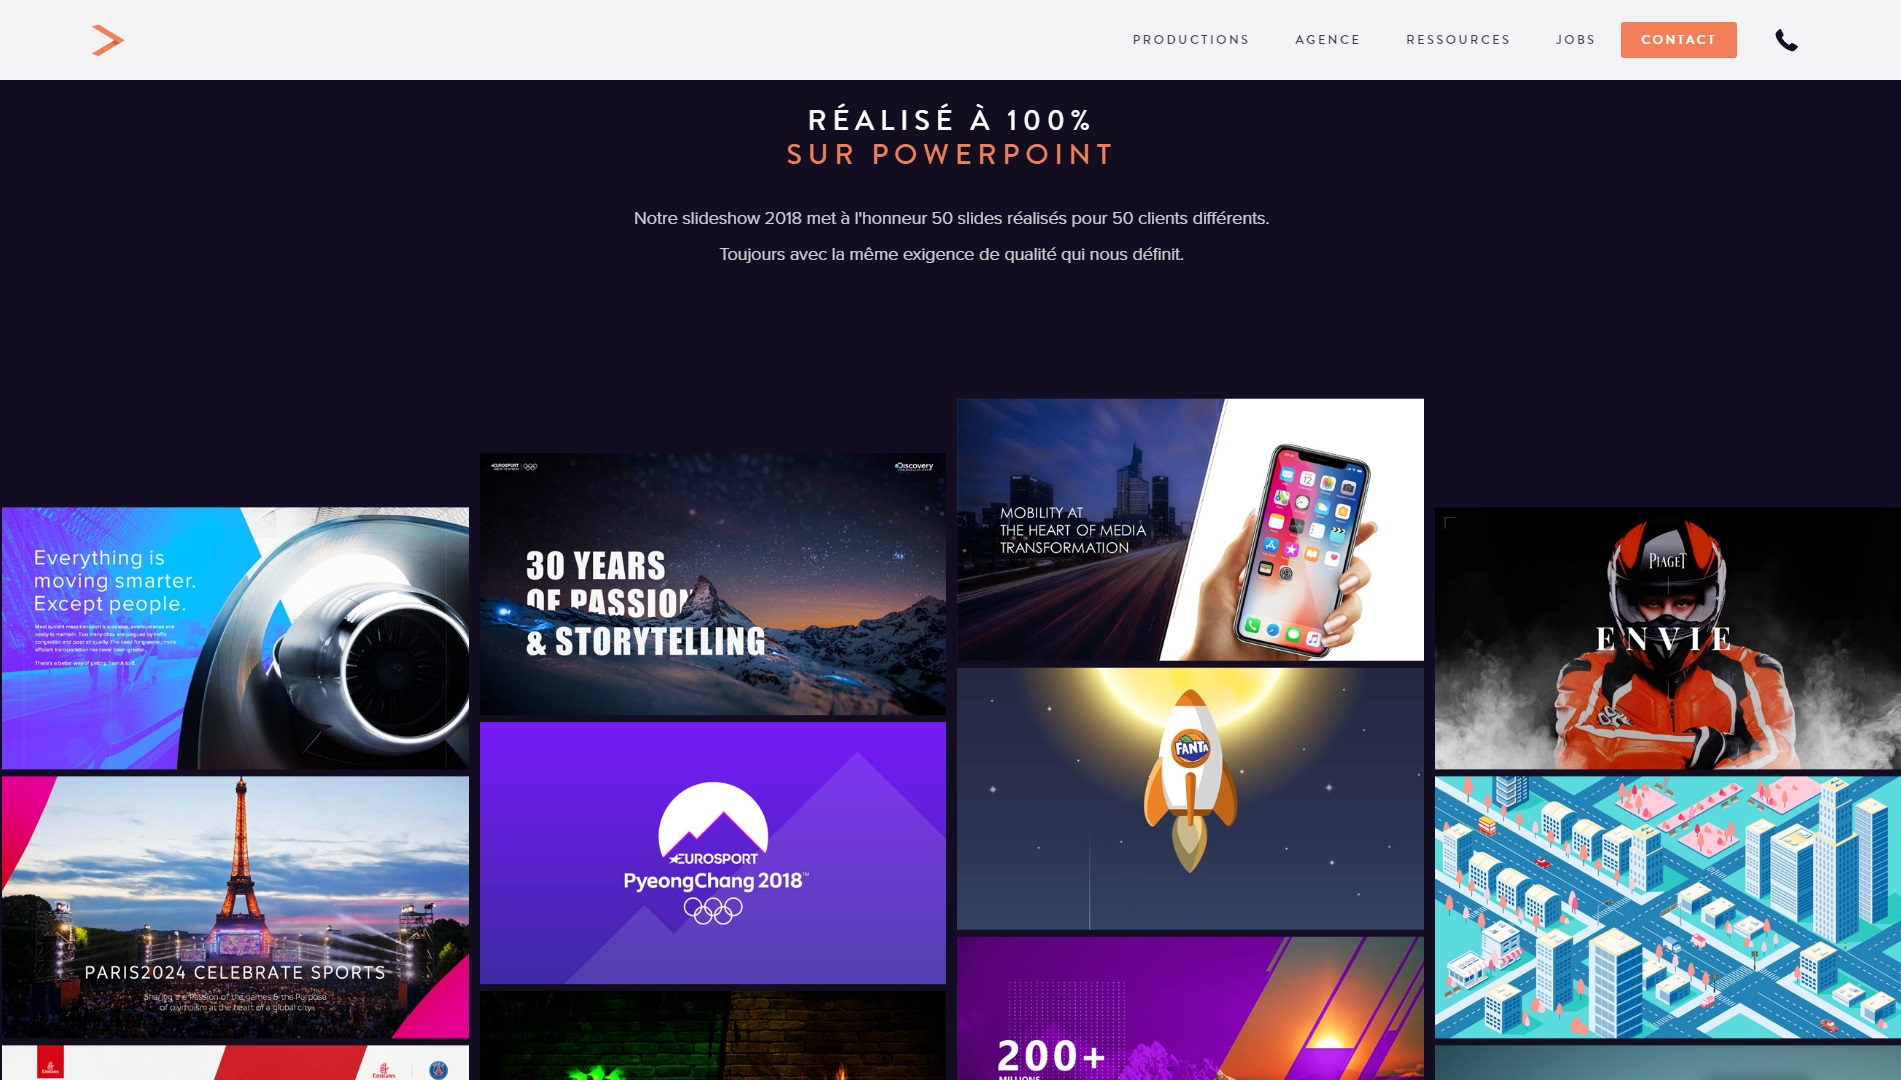
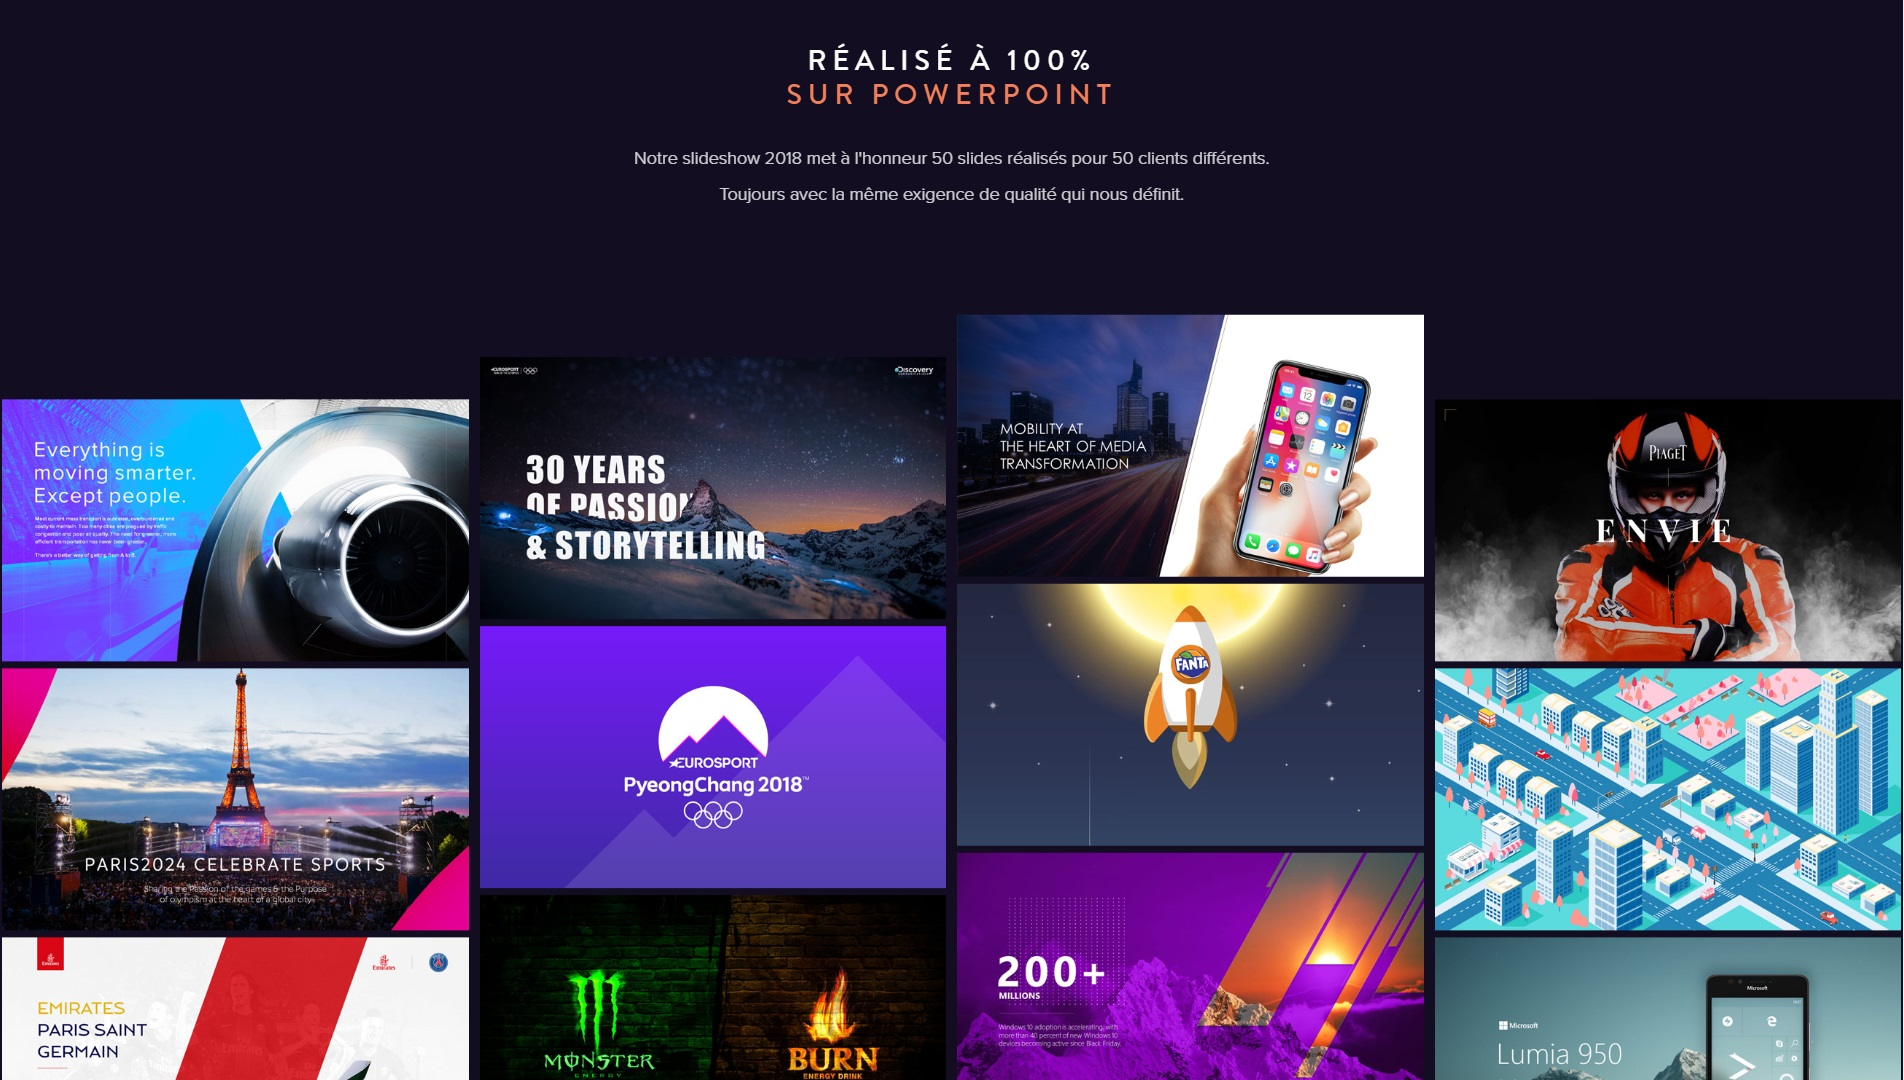
update template for all companies

diff --git a/src/scss/_companies.scss b/src/scss/_companies.scss
@@ -1,46 +1,30 @@
-$companies: (
-	aramis: (
-		color: #0062ad,
-		bg: url('aramis.jpg')
-	),
-	slidor: (
-		color: #120d21,
-		bg: url('slidor.jpg')
-	),
-	nature: (
-		color: #1e2b3f,
-		bg: url('nature.jpeg')
-	),
-	kerala: (
-		color: #f60,
-		bg: url('kerala.jpg')
-	)
-);
-
 .aramis {
-	color: #0062ad
-}
-.bg.aramis {
-	background-image: url('../images/companies/aramis.jpg');
+	color: #1a587e
 }
 
 .slidor {
 	color: #120d21
 }
-.bg.slidor {
-	background-image: url('../images/companies/slidor.jpg');
-}
 
 .nature {
-	color: #1e2b3f
-}
-.col.bg.nature {
-	background-image: url('../images/companies/nature.jpeg');
+	color: #859b6b
 }
 
 .kerala {
-	color: #f60
+	color: #d67923
 }
-.col.bg.kerala {
-	background-image: url('../images/companies/kerala.jpg');
+
+.various {
+	color: #b78557
+}
+
+.codepen {
+	color: #4841ff
+}
+
+.mario {
+	background-image: url('../images/companies/mario.png');
+	background-position: center;
+	background-repeat: no-repeat;
+	background-size: contain;
 }

diff --git a/src/scss/_experience.scss b/src/scss/_experience.scss
@@ -7,7 +7,7 @@
 
 	&__focus {
 		&::after {
-			background-color: $textColor;
+			background-color: $black;
 			content: '';
 			display: block;
 			height: 4px;
@@ -17,7 +17,51 @@
 	}
 
 	&__desc {
-		color: $grey;
-		max-width: 35rem;
+		width: 35rem;
+
+		& + & {
+			margin-top: 2rem;
+		}
+	}
+
+	&__img {
+		height: 100%;
+		left:50%;
+		position: absolute;
+		top:0;
+		transform: translateX(-50%);
+
+		img {
+			max-height: 100%;
+		}
+	}
+}
+
+.col {
+	display: flex;
+	flex: 0 0 50%;
+	flex-direction: column;
+	justify-content: center;
+
+	&.content {
+		padding: 5rem;
+	}
+	
+	&.bg {
+		position: relative;
+		overflow: hidden;
+	}
+
+	.experience:nth-of-type(2n) & {
+		align-items: flex-end;
+	}
+
+	.experience:nth-of-type(2n+1) & {
+		&.bg {
+			order: 1;
+		}
+		&.content {
+			order: 2;
+		}
 	}
 }

diff --git a/src/scss/_global.scss b/src/scss/_global.scss
@@ -3,12 +3,11 @@
 }
 
 body{
-	color: $textColor;
+	color: $black;
 	font-family: $fontText;
 	font-size: $fontSize;
 	font-weight: 400;
 	height: 100vh;
-	max-width: $uxl;
 	line-height: $blh;
 }
 
@@ -28,5 +27,9 @@ h3, .h3{
 }
 
 section {
-	height: 100%;
+	height: 100vh;
+}
+
+.grey {
+	color: $grey;
 }

diff --git a/src/scss/_colors.scss b/src/scss/_colors.scss
@@ -1,6 +1,5 @@
 // Colors
 $black: #020202;
-$grey: #7f8287;
-$textColor: $black;
+$grey: rgba($black, .55);
 $white: #000;
 

diff --git a/src/scss/main.scss b/src/scss/main.scss
@@ -6,5 +6,5 @@
 
 @import "_hero";
 @import "_experience";
-@import "_columns";
+//@import "_columns";
 @import "_companies";
